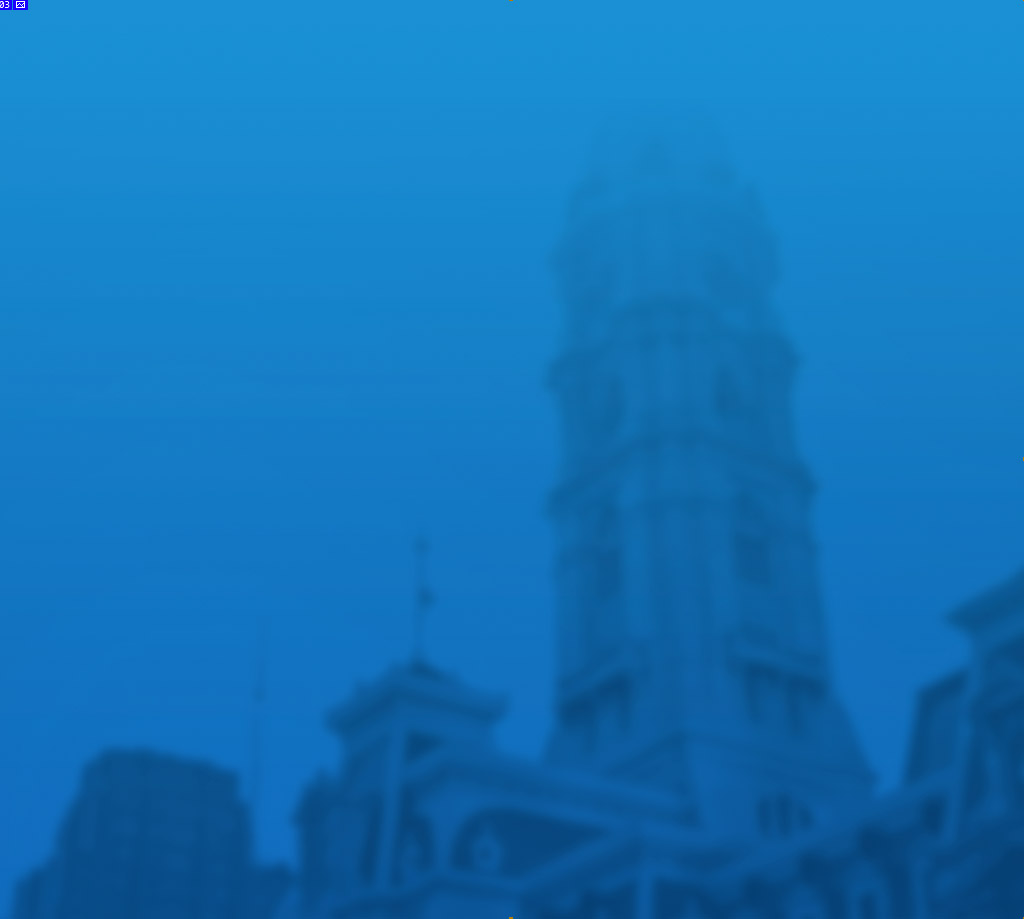
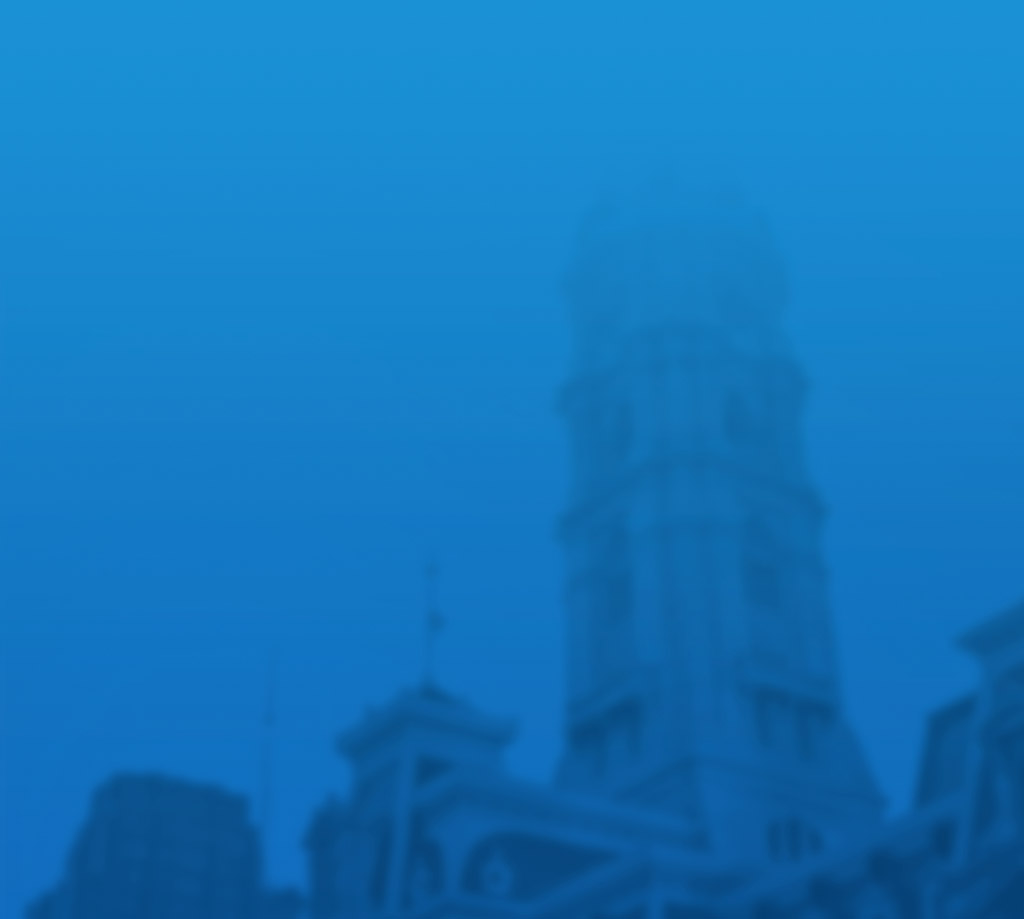
mobile styles

diff --git a/css/styles-min.css b/css/styles-min.css
@@ -1,1 +1,1 @@
-/*! normalize.css v4.1.1 | MIT License | github.com/necolas/normalize.css */progress,sub,sup{vertical-align:baseline}button,hr,input{overflow:visible}[type=checkbox],[type=radio],legend{padding:0;box-sizing:border-box}html,legend{box-sizing:border-box}#sign-up,body,html{height:100%}.a-head,.c-head{letter-spacing:-.025em}html{font-family:sans-serif;-ms-text-size-adjust:100%;-webkit-text-size-adjust:100%}article,aside,details,figcaption,figure,footer,header,main,menu,nav,section,summary{display:block}audio,canvas,progress,video{display:inline-block}audio:not([controls]){display:none;height:0}[hidden],template{display:none}a{background-color:transparent;-webkit-text-decoration-skip:objects}a:active,a:hover{outline-width:0}abbr[title]{border-bottom:none;text-decoration:underline;text-decoration:underline dotted}b,strong{font-weight:bolder}dfn{font-style:italic}h1{font-size:2em;margin:.67em 0}mark{background-color:#ff0;color:#000}small{font-size:80%}sub,sup{font-size:75%;line-height:0;position:relative}sub{bottom:-.25em}sup{top:-.5em}img{border-style:none}svg:not(:root){overflow:hidden}code,kbd,pre,samp{font-family:monospace,monospace;font-size:1em}figure{margin:1em 40px}hr{box-sizing:content-box;height:0}button,input,select,textarea{font:inherit;margin:0}optgroup{font-weight:700}.sign-up-wrap,textarea{overflow:auto}button,select{text-transform:none}#sign-up .employers h3,.a-head,.c-head,label{text-transform:uppercase}[type=reset],[type=submit],button,html [type=button]{-webkit-appearance:button}[type=button]::-moz-focus-inner,[type=reset]::-moz-focus-inner,[type=submit]::-moz-focus-inner,button::-moz-focus-inner{border-style:none;padding:0}[type=button]:-moz-focusring,[type=reset]:-moz-focusring,[type=submit]:-moz-focusring,button:-moz-focusring{outline:ButtonText dotted 1px}fieldset{border:1px solid silver;margin:0 2px;padding:.35em .625em .75em}legend{color:inherit;display:table;max-width:100%;white-space:normal}[type=number]::-webkit-inner-spin-button,[type=number]::-webkit-outer-spin-button{height:auto}[type=search]{-webkit-appearance:textfield;outline-offset:-2px}[type=search]::-webkit-search-cancel-button,[type=search]::-webkit-search-decoration{-webkit-appearance:none}::-webkit-input-placeholder{color:inherit;opacity:.54}::-webkit-file-upload-button{-webkit-appearance:button;font:inherit}html{font-size:10px;line-height:1.5;color:#333;-webkit-font-smoothing:antialiased}*,:after,:before{box-sizing:inherit}body{margin:0;font-family:brandon-grotesque,sans-serif}.clearfix:after,.clearfix:before{content:" ";display:table}.clearfix:after{clear:both}#main{width:58%}#main-wrap{max-width:800px;padding:48px 90px;margin:0 auto}#yip-logo{display:block;width:222px;height:37px}.a-head{font-weight:900;font-size:12em;line-height:.9;color:#2d8ce2;margin:48px 0}.b-head{font-size:3.6em;line-height:1.285;margin:0 0 64px;color:#f00b3c;font-weight:700}.content{color:#444}.content a:link,.content a:visited{color:#0077e6;text-decoration:none;border-bottom:1px solid #bcbcbc;transition:all .2s}.content a:hover{color:#0057a9;border-bottom:1px solid #0057a9}.content h3{font-size:2.6em;font-weight:700;margin:0 0 16px}.content p{font-size:2.1em;line-height:1.5;margin:0 0 16px}.content p+h3{margin:32px 0 16px}#sign-up{position:fixed;width:42%;background:url(../img/form-bk.jpg) right bottom no-repeat #2591d0;top:0;right:0;color:#fff;border:13px solid #232323;padding-bottom:200px}.sign-up-wrap{padding:48px 80px;max-width:600px;margin:0 auto}.c-head{font-size:4.2em;line-height:1;font-weight:900;margin:72px 0 32px}#sign-up p{font-size:2.1em;line-height:1.3;margin:0 0 32px;font-weight:700}#sign-up .kickoff{font-weight:400}#sign-up .kickoff-date{font-weight:900;font-size:1.125em}label{font-size:1.5em;letter-spacing:.025em;display:block;font-weight:900;padding:0 5px 3px 0}input[type=text]{font-size:1.8em;padding:3px 8px;border-radius:3px;color:#333;display:block;width:100%;margin-bottom:10px;border:2px solid #fff;transition:all .2s}input[type=text]:focus{border:2px solid #333;outline:0}input[type=submit]{background:#2d8ce2;font-weight:900;padding:5px 20px;color:#fff;border:1px solid #fff;text-transform:uppercase;font-size:1.6em;letter-spacing:.025em;border-radius:4px;box-shadow:1px 1px 4px rgba(0,0,0,.2);float:right;margin-top:10px;transition:all .2s}input[type=submit]:hover{background:#1077d4;cursor:pointer}.employers{background:rgba(0,39,77,.5);position:absolute;bottom:0;left:0;width:100%}.employers .sign-up-wrap{padding:15px 80px 10px}#sign-up .employers h3{font-weight:900;font-size:1.8em;letter-spacing:.05em;margin-bottom:9px}#sign-up .employers p{font-weight:400;font-size:1.8em;line-height:1.35}.employers a:link,.employers a:visited{text-decoration:none;font-weight:700;color:#fff;transition:all .2s}.employers a:hover{color:#1fc8ff}
+/*! normalize.css v4.1.1 | MIT License | github.com/necolas/normalize.css */progress,sub,sup{vertical-align:baseline}button,hr,input{overflow:visible}[type=checkbox],[type=radio],legend{padding:0;box-sizing:border-box}html,legend{box-sizing:border-box}body,html{height:100%}.a-head,.c-head{letter-spacing:-.025em}html{font-family:sans-serif;-ms-text-size-adjust:100%;-webkit-text-size-adjust:100%}article,aside,details,figcaption,figure,footer,header,main,menu,nav,section,summary{display:block}audio,canvas,progress,video{display:inline-block}audio:not([controls]){display:none;height:0}[hidden],template{display:none}a{background-color:transparent;-webkit-text-decoration-skip:objects}a:active,a:hover{outline-width:0}abbr[title]{border-bottom:none;text-decoration:underline;text-decoration:underline dotted}b,strong{font-weight:bolder}dfn{font-style:italic}h1{font-size:2em;margin:.67em 0}mark{background-color:#ff0;color:#000}small{font-size:80%}sub,sup{font-size:75%;line-height:0;position:relative}sub{bottom:-.25em}sup{top:-.5em}img{border-style:none}svg:not(:root){overflow:hidden}code,kbd,pre,samp{font-family:monospace,monospace;font-size:1em}figure{margin:1em 40px}hr{box-sizing:content-box;height:0}button,input,select,textarea{font:inherit;margin:0}optgroup{font-weight:700}.sign-up-wrap,textarea{overflow:auto}button,select{text-transform:none}#anchors a,#sign-up .employers h3,.a-head,.c-head,label{text-transform:uppercase}[type=reset],[type=submit],button,html [type=button]{-webkit-appearance:button}[type=button]::-moz-focus-inner,[type=reset]::-moz-focus-inner,[type=submit]::-moz-focus-inner,button::-moz-focus-inner{border-style:none;padding:0}[type=button]:-moz-focusring,[type=reset]:-moz-focusring,[type=submit]:-moz-focusring,button:-moz-focusring{outline:ButtonText dotted 1px}fieldset{border:1px solid silver;margin:0 2px;padding:.35em .625em .75em}legend{color:inherit;display:table;max-width:100%;white-space:normal}[type=number]::-webkit-inner-spin-button,[type=number]::-webkit-outer-spin-button{height:auto}[type=search]{-webkit-appearance:textfield;outline-offset:-2px}[type=search]::-webkit-search-cancel-button,[type=search]::-webkit-search-decoration{-webkit-appearance:none}::-webkit-input-placeholder{color:inherit;opacity:.54}::-webkit-file-upload-button{-webkit-appearance:button;font:inherit}html{font-size:9px;line-height:1.5;color:#333;-webkit-font-smoothing:antialiased}*,:after,:before{box-sizing:inherit}body{margin:0;font-family:brandon-grotesque,sans-serif}.clearfix:after,.clearfix:before{content:" ";display:table}.clearfix:after{clear:both}#main-wrap{max-width:700px;padding:30px 20px;margin:0 auto}#yip-logo{display:block;width:222px;height:37px}.a-head{font-weight:900;font-size:7.5em;line-height:.9;color:#2d8ce2;margin:.4em 0}#anchors a,.b-head{color:#f00b3c;font-weight:700}.b-head{font-size:3em;line-height:1.285;margin:0 0 1.77778em}#anchors{font-size:1.8em;margin-bottom:3.25em}#anchors a{line-height:1;display:inline-block;border:2px solid #f00b3c;border-radius:4px;padding:8px 10px;transition:all .2s}#anchors a:hover{background:#f00b3c;color:#fff}.content{color:#444}.content a:link,.content a:visited{color:#0077e6;text-decoration:none;border-bottom:1px solid #bcbcbc;transition:all .2s}.content a:hover{color:#0057a9;border-bottom:1px solid #0057a9}.content h3{font-size:2.6em;font-weight:700;margin:0 0 .615em}.content p{font-size:2.1em;line-height:1.5;margin:0 0 .762em}.content p+h3{margin:1.23em 0 .615em}.employer-wrap,.sign-up-wrap{max-width:700px;margin:0 auto}#fixed{background:url(../img/form-bk.jpg) right bottom no-repeat #2591d0;background-size:cover}#sign-up{color:#fff}.employers{background:rgba(0,39,77,.5)}.sign-up-wrap{padding:30px 20px}.employer-wrap{padding:20px}.c-head{font-size:3.5em;line-height:1;font-weight:900;margin:0 0 16px}#sign-up p{font-size:2.1em;line-height:1.3;margin:0 0 32px;font-weight:700}#sign-up .kickoff{font-weight:400}#sign-up .kickoff-date{font-weight:900;font-size:1.125em}label{font-size:1.4em;letter-spacing:.025em;display:block;font-weight:900;padding:0 5px 3px 0}input[type=text]{font-size:1.8em;line-height:1;padding:2px 6px;border-radius:3px;color:#333;display:block;width:100%;margin-bottom:10px;border:2px solid #fff;transition:all .2s}input[type=text]:focus{border:2px solid #333;outline:0}input[type=submit]{background:#2d8ce2;font-weight:900;padding:5px 20px;color:#fff;border:1px solid #fff;text-transform:uppercase;font-size:1.6em;letter-spacing:.025em;border-radius:4px;box-shadow:1px 1px 4px rgba(0,0,0,.2);float:right;margin-top:10px;transition:all .2s}input[type=submit]:hover{background:#1077d4;cursor:pointer}#sign-up .employers h3{font-weight:900;font-size:1.8em;letter-spacing:.05em;margin:0 0 9px}#sign-up .employers p{font-weight:400;font-size:1.9em;line-height:1.35;margin:0}.employers a:link,.employers a:visited{text-decoration:none;font-weight:700;color:#fff;transition:all .2s}.employers a:hover{color:#1fc8ff}@media (min-width:400px){.a-head{font-size:10em}}@media (min-width:600px){#main-wrap{padding:30px}.sign-up-wrap{padding:40px 30px}.employer-wrap{padding:20px 30px}}@media(min-width:650px){html{font-size:10px}.a-head{font-size:12em}.b-head{font-size:3.6em}}@media(min-width:900px){#anchors{display:none}html{font-size:9px}#main{width:59%}#fixed{width:41%;top:0;right:0;height:100%;position:fixed;overflow:auto}#sign-up{display:table;border:none;width:100%;position:relative;height:100%;padding-top:10px;padding-bottom:220px}.sign-up-wrap{display:table-cell;vertical-align:middle}.employers{position:absolute;bottom:0;left:0;width:100%}.a-head{font-size:10em}.b-head{font-size:3em}#sign-up .employers p{font-size:1.8em}}@media (min-width:1100px){html{font-size:10px}.a-head{font-size:12em}.b-head{font-size:3.6em}#main-wrap{padding:48px 50px}}@media (min-width:1200px){#sign-up{padding-bottom:190px}}@media (min-width:1300px){.sign-up-wrap{padding:48px 80px}.employer-wrap{padding:20px 80px}.c-head{font-size:4.5em}input[type=text]{padding:3px 8px}label{font-size:1.5em}}

diff --git a/css/styles.css b/css/styles.css
@@ -1,11 +1,12 @@
 html {
   box-sizing: border-box;
-  font-size: 10px;
+  font-size: 9px;
   line-height: 1.5;
   color: #333;
   -webkit-font-smoothing: antialiased;
   height: 100%;
 }
+
 *, *:before, *:after {
   box-sizing: inherit;
 }
@@ -20,18 +21,13 @@ body {
     content: " "; /* 1 */
     display: table; /* 2 */
 }
-
 .clearfix:after {
     clear: both;
 }
 
-#main {
-  width: 58%;
-}
-
 #main-wrap {
-  max-width: 800px;
-  padding: 48px 90px;
+  max-width: 700px;
+  padding: 30px 20px;
   margin: 0 auto;
 }
 #yip-logo {
@@ -42,19 +38,40 @@ body {
 /* left content */
 .a-head {
   font-weight: 900;
-  font-size: 12em;
+  font-size: 7.5em;
   line-height: .9;
   color: #2d8ce2;
   text-transform: uppercase;
   letter-spacing: -.025em;
-  margin: 48px 0;
+  /*margin: 48px 0;*/
+  margin: 0.4em 0;
 }
 .b-head {
-  font-size: 3.6em;
+  font-size: 3em;
   line-height: 1.285;
-  margin: 0 0 64px;
+  /*margin: 0 0 64px;*/
+  margin: 0 0 1.77778em;
   color: #f00b3c;
   font-weight: 700;
+}
+#anchors {
+  font-size: 1.8em;
+  margin-bottom: 3.25em;
+}
+#anchors a {
+  line-height: 1;
+  text-transform: uppercase;
+  color: #f00b3c;
+  display: inline-block;
+  border: 2px solid  #f00b3c;
+  font-weight: 700;
+  border-radius: 4px;
+  padding: 8px 10px;
+  transition: all .2s;
+}
+#anchors a:hover {
+  background: #f00b3c;
+  color: #fff; 
 }
 .content {
   color: #444;
@@ -72,44 +89,50 @@ body {
 .content h3 {
   font-size: 2.6em;
   font-weight: 700;
-  margin: 0 0 16px;
+  margin: 0 0 .615em;
 }
 .content p {
   font-size: 2.1em;
   line-height: 1.5;
-  margin: 0 0 16px;
+  margin: 0 0 .762em;
 }
 .content p + h3 {
-   margin: 32px 0 16px;
+   margin: 1.23em 0 .615em;
 }
 
 
 /* right content */
-#sign-up {
-  position: fixed;
-  width: 42%;
+#fixed {
   background: #2591d0 url('../img/form-bk.jpg') no-repeat right bottom;
-  top:0;
-  right:0;
-  height: 100%;
+  background-size: cover;
+}
+#sign-up {
   color:#fff;
-  border: 13px solid #232323;
-  padding-bottom: 200px;
+}
+.employers {
+  background: rgba(0, 39, 77, .5);
 }
 .sign-up-wrap {
-  padding: 48px 80px;
-  max-width: 600px;
+  padding: 30px 20px;
+  max-width: 700px;
   overflow: auto;
+  margin: 0 auto;
+}
+.employer-wrap {
+  padding: 20px;
+  max-width: 700px;
   margin: 0 auto;
 }
 .c-head {
   text-transform: uppercase;
-  font-size: 4.2em;
+  font-size: 3.5em;
   line-height: 1;
   font-weight: 900;
-  margin: 72px 0 32px;
+  margin: 0 0 16px;
   letter-spacing: -.025em;
 }
+
+
 #sign-up p {
   font-size: 2.1em;
   line-height: 1.3;
@@ -128,7 +151,7 @@ body {
 
 label {
   text-transform: uppercase;
-  font-size: 1.5em;
+  font-size: 1.4em;
   letter-spacing: .025em;
   display: block;
   font-weight: 900;
@@ -136,7 +159,8 @@ label {
 }
 input[type="text"] {
   font-size: 1.8em;
-  padding:3px 8px;
+  line-height: 1;
+  padding:2px 6px;
   border-radius: 3px;
   color: #333;
   border:none;
@@ -170,28 +194,18 @@ input[type="submit"]:hover {
   cursor: pointer;
 }
 
-
-.employers {
-  background: rgba(0, 39, 77, .5);
-  position: absolute;
-  bottom: 0;
-  left: 0;
-  width: 100%;
-}
-.employers .sign-up-wrap {
-  padding: 15px 80px 10px;
-}
 #sign-up .employers h3 {
   text-transform: uppercase;
   font-weight: 900;
   font-size: 1.8em;
   letter-spacing: .05em;
-  margin-bottom: 9px;
+  margin: 0 0 9px;
 }
 #sign-up .employers p {
   font-weight: 400;
-  font-size: 1.8em;
+  font-size: 1.9em;
   line-height: 1.35;
+  margin: 0;
 }
 
 .employers a:link, .employers a:visited {
@@ -202,4 +216,117 @@ input[type="submit"]:hover {
 }
 .employers a:hover {
   color: #1fc8ff;
+}
+@media (min-width: 400px) {
+  .a-head {
+    font-size: 10em;
+  }
+}
+@media (min-width: 600px) {
+  #main-wrap {
+    padding: 30px;
+  }
+  .sign-up-wrap {
+    padding: 40px 30px;
+  }
+  .employer-wrap {
+    padding: 20px 30px;
+  }
+}
+@media(min-width: 650px) {
+  html {
+    font-size: 10px;
+  }
+  .a-head {
+    font-size: 12em;
+  }
+  .b-head {
+    font-size: 3.6em;
+  }
+}
+
+@media(min-width: 900px) {
+  #anchors {
+    display: none;
+  }
+  html {
+    font-size: 9px;
+  }
+  #main {
+    width: 59%;
+  }
+  #fixed {
+    width: 41%;
+    top:0;
+    right:0;
+    height: 100%;
+    position: fixed;
+    overflow: auto;
+  }
+  #sign-up {
+    display: table;
+    border: none;
+    width: 100%;
+    position: relative;
+    height: 100%;
+    padding-top: 10px;
+    padding-bottom: 220px;
+  }
+  .sign-up-wrap {
+    display: table-cell;
+    vertical-align: middle;
+  }
+  .employers {
+    position: absolute;
+    bottom: 0;
+    left: 0;
+    width: 100%;
+  }
+  .a-head {
+    font-size: 10em;
+  }
+  .b-head {
+    font-size: 3em;
+  }
+  #sign-up .employers p {
+    font-size: 1.8em;
+  }
+}
+
+@media (min-width: 1100px) {
+  html {
+    font-size: 10px;
+  }
+  .a-head {
+    font-size: 12em;
+  }
+  .b-head {
+    font-size: 3.6em;
+  }
+  #main-wrap {
+    padding: 48px 50px;
+  }
+}
+@media (min-width: 1200px) {
+  #sign-up {
+    padding-bottom: 190px;
+  }
+}
+
+@media (min-width: 1300px) {
+  .sign-up-wrap {
+    padding: 48px 80px;
+  }
+  .employer-wrap {
+    padding: 20px 80px;
+  }
+  .c-head {
+    font-size: 4.5em;
+  }
+  input[type="text"] {
+    padding:3px 8px;
+  }
+  label {
+    font-size: 1.5em;
+  }
 }

diff --git a/index.html b/index.html
@@ -26,6 +26,9 @@
           <img src="img/yip-logo.png" id="yip-logo" alt="Young Involved Philadelphia" >
           <h1 class="a-head">Unpack Philly</h1>
           <h2 class="b-head">An Eight-Week Guided Tour to Get Involved in Philly</h2>
+          <div id="anchors">
+            <a href="#sign-up">Sign Up</a>
+          </div>
           <h3>About the Program</h3>
           <p>Elit, sed do eiusmod tempor incididunt ut labore et dolore magna aliqua. Ut enim ad minim veniam, quis nostrud exercitation ullamco laboris nisi ut aliquip ex ea commodo consequat. Duis aute irure dolor in reprehenderit in voluptate.</p>
           <p>Elit, sed do eiusmod tempor incididunt ut labore et dolore magna aliqua. Ut enim ad minim veniam, quis <a href="#">link style</a> ullamco laboris nisi ut aliquip ex ea commodo consequat. Duis aute irure dolor in reprehenderit in voluptate.</p>
@@ -36,35 +39,36 @@
       </div>
     </section>
 
-
-    <section id="sign-up">
-      <div class="sign-up-wrap">
-        <h2 class="c-head">Sign Up</h2>
-        <p>Want to learn more about Philly, the organizations working to improve it, and meet some new people along the way? Sign up below.</p>
-        <p class="kickoff">
-          Our first session kicks off: <br>
-          <span class="kickoff-date">September 15<sup>th</sup>, 2016</span>
-        </p>
-        <form class="clearfix">
-          <div class="input-block">
-            <label>Name</label>
-            <input type="text">
-          </div>
-          <div class="input-block">
-            <label>Email</label>
-            <input type="text">
-          </div>
-          <input type="submit">
-        </form>
-      </div>
-      <div class="employers">
+    <div id="fixed">
+      <section id="sign-up">
         <div class="sign-up-wrap">
-          <h3>Employers &amp; Organizations</h3>
-          <p>If you would like to present your organization to new Philadelphians, or have some new employees you’d like to take part in the program, contact us at: <a href="mailto:hello@unpackphilly.com">hello@unpackphilly.com</a>
+          <h2 class="c-head">Sign Up</h2>
+          <p>Want to learn more about Philly, organizations working to improve it, and meet some new people along the way? Sign up below.</p>
+          <p class="kickoff">
+            Our first session kicks off: <br>
+            <span class="kickoff-date">September 19<sup>th</sup>, 2016</span>
+          </p>
+          <form class="clearfix">
+            <div class="input-block">
+              <label>Name</label>
+              <input type="text">
+            </div>
+            <div class="input-block">
+              <label>Email</label>
+              <input type="text">
+            </div>
+            <input type="submit" value="Sign Up">
+          </form>
         </div>
-      </div>
-     
-    </section>
+        <div class="employers">
+          <div class="employer-wrap">
+            <h3>Employers &amp; Organizations</h3>
+            <p>Have an organization that might be of interest to new Philadelphians, or new employees interested in the program? Contact us: <a href="mailto:hello@unpackphilly.com">hello@unpackphilly.com</a></p>
+          </div>
+        </div>
+       
+      </section>
+    </div>
 
     <script src="https://ajax.googleapis.com/ajax/libs/jquery/1.12.4/jquery.min.js"></script>
     <script src="js/scripts.js"></script>
